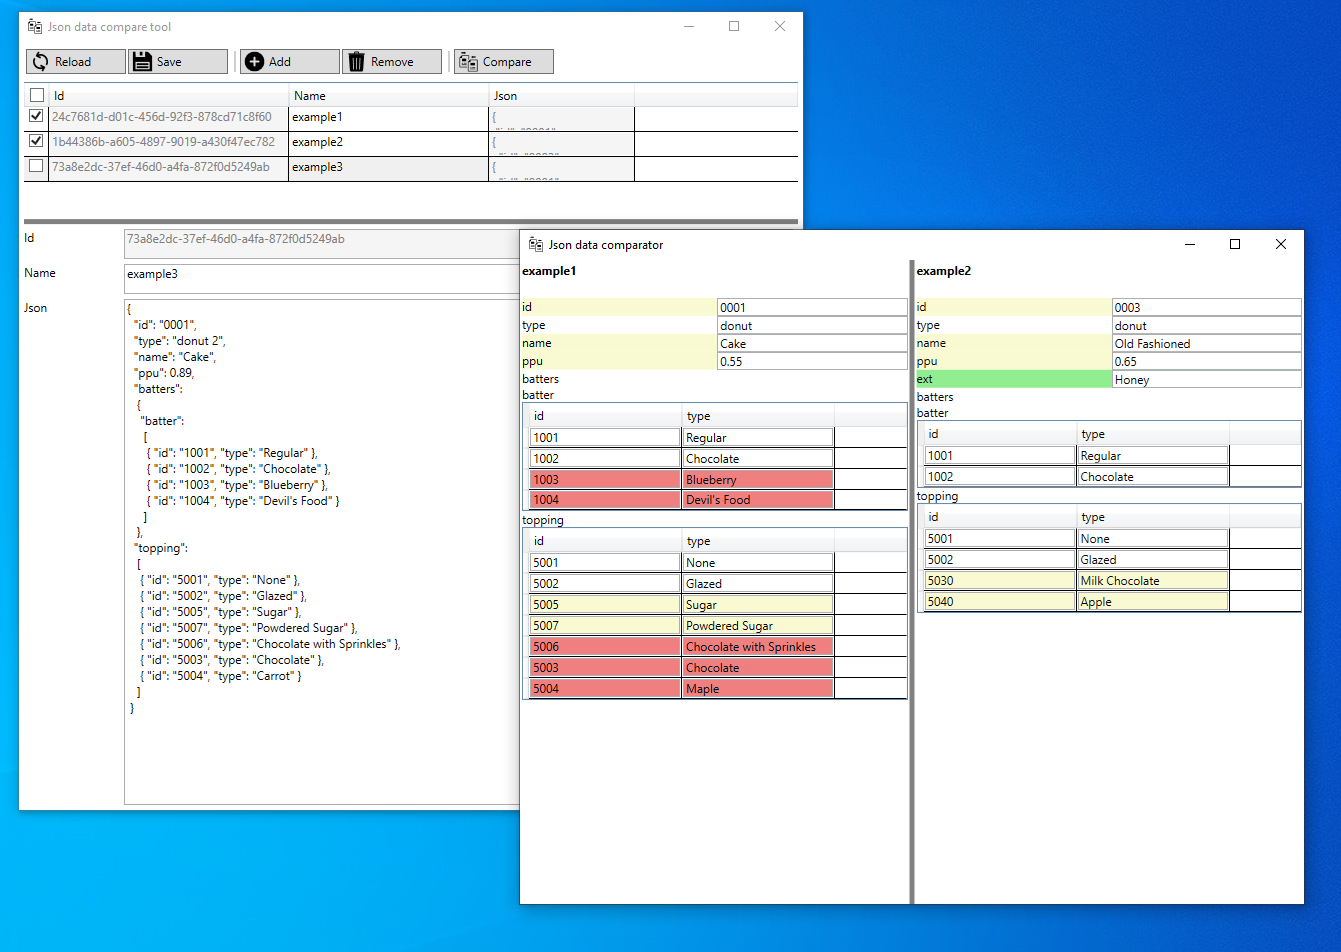
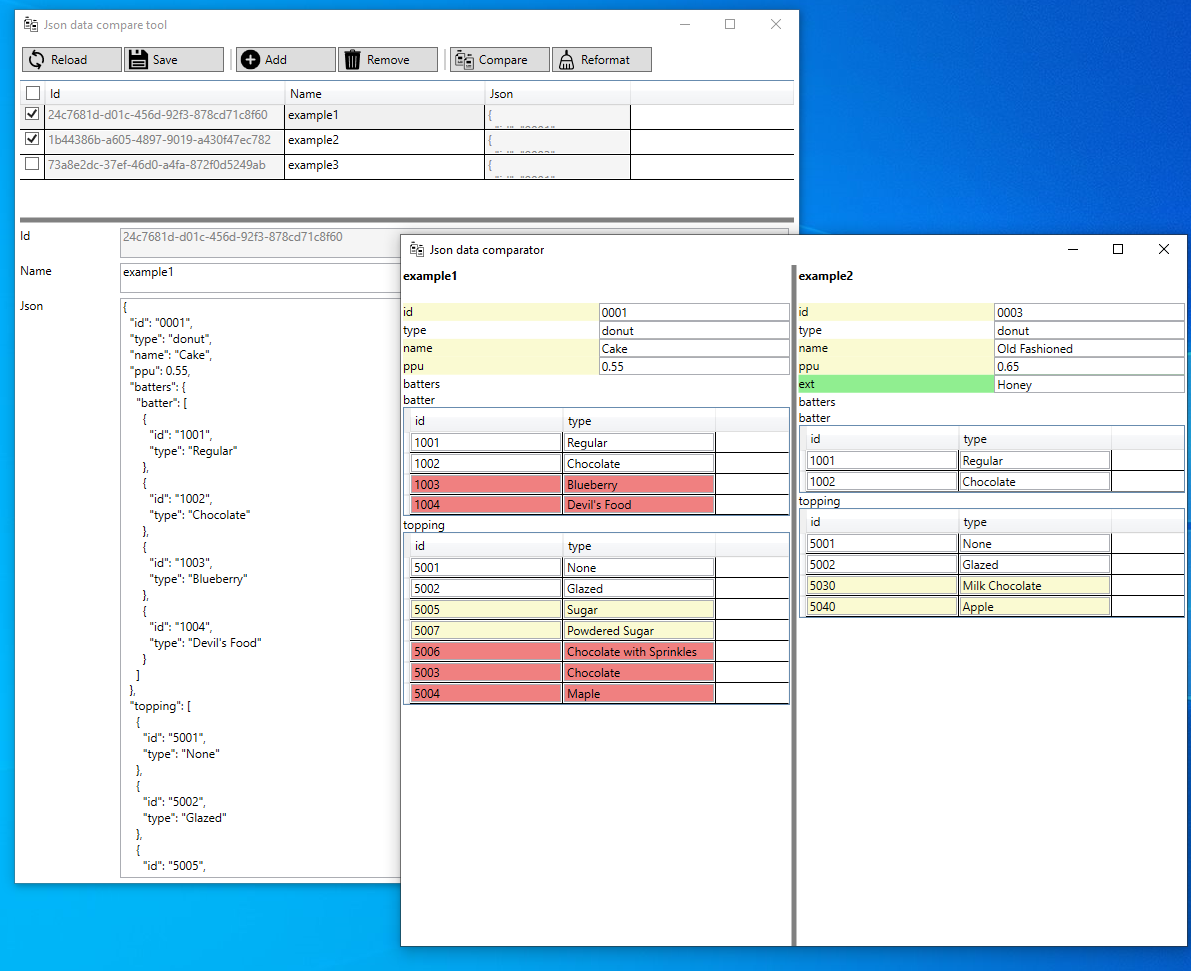
Added reformat json function.

Changed region(s): [[0.0, 0.0, 1.0, 1.0]]

diff --git a/JsonDataTool/Resources/Icons/ReformatIcon.xaml b/JsonDataTool/Resources/Icons/ReformatIcon.xaml
@@ -1,0 +1,25 @@
+<ResourceDictionary xmlns="http://schemas.microsoft.com/winfx/2006/xaml/presentation"
+                    xmlns:x="http://schemas.microsoft.com/winfx/2006/xaml">
+    <ControlTemplate x:Key="ReformatIcon">
+        <Image>
+            <Image.Source>
+                <DrawingImage>
+                    <DrawingImage.Drawing>
+                        <DrawingGroup xmlns="http://schemas.microsoft.com/winfx/2006/xaml/presentation" xmlns:x="http://schemas.microsoft.com/winfx/2006/xaml">
+                            <DrawingGroup x:Name="DrawingLayer">
+                                <DrawingGroup.ClipGeometry>
+                                    <RectangleGeometry Rect="0,0,1200,1200" />
+                                </DrawingGroup.ClipGeometry>
+                                <GeometryDrawing Brush="{Binding Foreground, RelativeSource={RelativeSource AncestorType=Control}}">
+                                    <GeometryDrawing.Geometry>
+                                        <PathGeometry FillRule="Nonzero" Figures="M918.94,875.75L850.002,600C849.994188,542.375 830.084,486.52 793.643,441.89 757.202,397.253 706.459,366.574 650.003,355.038L650.003,199.998C650.003,182.135 640.4718,165.627 625.003,156.697 609.534,147.7634 590.472,147.7634 575.003,156.697 559.534,165.6267 550.003,182.135 550.003,199.998L550.003,355.038C493.546,366.573 442.803,397.253 406.363,441.89 369.922,486.523 350.011,542.37 350.004,600L281.066,875.75C273.5972,905.621 280.30819,937.273 299.261,961.543 318.21,985.816 347.284,1000.004 378.077,1000.004L821.927,1000.004C852.72,1000.004 881.794,985.816 900.747,961.543 919.696,937.27 926.407,905.621 918.938,875.75z M600,400C653.023,400.058594 703.86,421.148 741.36,458.645 778.856,496.141 799.946,546.977 800.005,600.005L400.005,600.005C400.063594,546.982 421.153,496.145 458.65,458.645 496.146,421.149 546.982,400.059 600.01,400z M861.33,930.77C851.8847,942.946,837.33,950.047,821.924,950L749.998,950 749.998,775C749.998,766.0703 745.2324,757.816 737.498,753.348 729.7636,748.8832 720.232,748.8832 712.498,753.348 704.7636,757.8168 699.998,766.071 699.998,775L699.998,950 624.998,950 624.998,775C624.998,766.0703 620.2324,757.816 612.498,753.348 604.7636,748.8832 595.232,748.8832 587.498,753.348 579.7636,757.8168 574.998,766.071 574.998,775L574.998,950 499.998,950 499.998,775C499.998,766.0703 495.2324,757.816 487.498,753.348 479.7636,748.8832 470.232,748.8832 462.498,753.348 454.7636,757.8168 449.998,766.071 449.998,775L449.998,950 378.072,950C362.677,950 348.138,942.9062 338.666,930.77 329.1894,918.633 325.834,902.809 329.5683,887.872L389.0373,650.002 810.9673,650.002 870.4323,887.872C874.2135,902.81,870.85417,918.657,861.3346,930.77z" />
+                                    </GeometryDrawing.Geometry>
+                                </GeometryDrawing>
+                            </DrawingGroup>
+                        </DrawingGroup>
+                    </DrawingImage.Drawing>
+                </DrawingImage>
+            </Image.Source>
+        </Image>
+    </ControlTemplate>
+</ResourceDictionary>

diff --git a/JsonDataTool/App.xaml b/JsonDataTool/App.xaml
@@ -17,6 +17,7 @@
                 <ResourceDictionary Source="Resources/Icons/RemoveIcon.xaml"/>
                 <ResourceDictionary Source="Resources/Icons/CompareIcon.xaml"/>
                 <ResourceDictionary Source="Resources/Icons/SaveIcon.xaml"/>
+                <ResourceDictionary Source="Resources/Icons/ReformatIcon.xaml"/>
             </ResourceDictionary.MergedDictionaries>
         </ResourceDictionary>
     </Application.Resources>

diff --git a/JsonDataTool/MainWindowPresenter.cs b/JsonDataTool/MainWindowPresenter.cs
@@ -1,6 +1,8 @@
 using JsonDataTool.Controls;
 using JsonDataTool.Entities;
 using JsonDataTool.Providers;
+using Newtonsoft.Json.Linq;
+using System;
 using System.Collections.Generic;
 using System.Collections.ObjectModel;
 using System.ComponentModel;
@@ -62,10 +64,33 @@ namespace JsonDataTool
                     "RemoveIcon", "Remove", "Remove selected items"),
                 new SeparatorToolbarItem(),
                 new ToolbarItem(new Command(this.Compare, () => this.JsonItems.Count(j=>j.IsSelected) == 2),
-                    "CompareIcon","Compare", "Compare two selected items")
+                    "CompareIcon","Compare", "Compare two selected items"),
+                new ToolbarItem(new Command(this.Reformat, () => this.SelectedJsonItem != null),
+                    "ReformatIcon","Reformat", "Reformat json in selected item")
             };
 
             this.Reload();
+        }
+
+        private void Reformat()
+        {
+            string jsonValue = this.SelectedJsonItem.JsonValue;
+
+            if (string.IsNullOrEmpty(jsonValue))
+            {
+                return;
+            }
+
+            try
+            {
+                var jObject = JObject.Parse(jsonValue);
+
+                this.selectedJsonItem.JsonValue = jObject.ToString(Newtonsoft.Json.Formatting.Indented);
+            }
+            catch(Exception ex)
+            {
+                MessageBox.Show("Json can not be reformat.", "Error reformat json", MessageBoxButton.OK, MessageBoxImage.Error);
+            }
         }
 
         private void Save()
